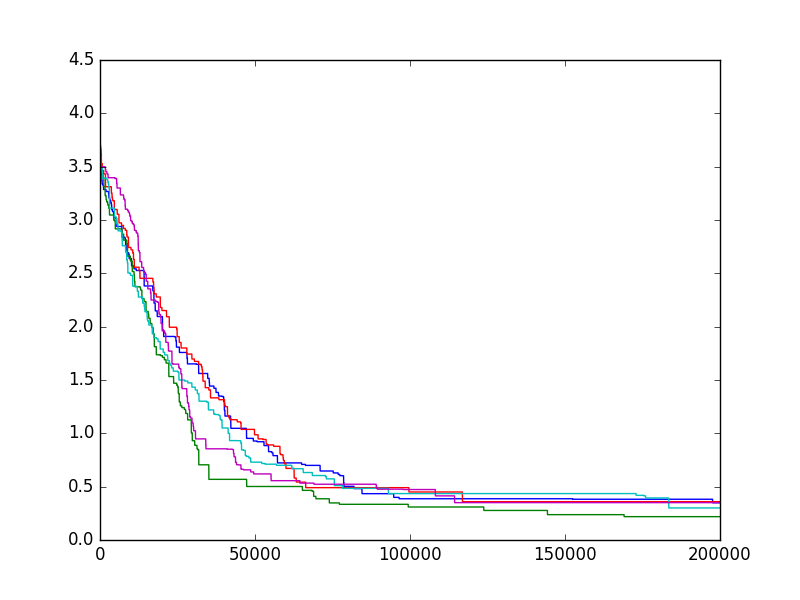
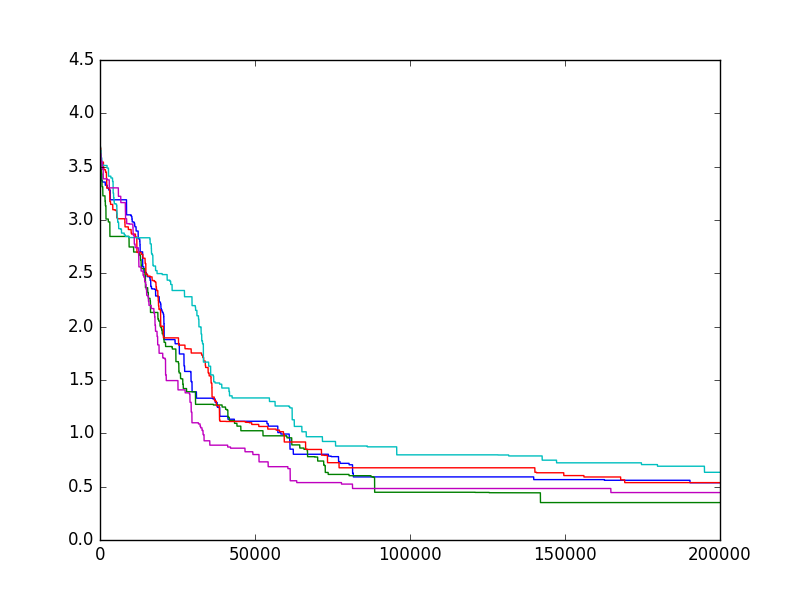
add PONSS

Changed region(s): [[0.125, 0.27, 0.9062, 0.87]]

diff --git a/zoopt/noise_handling/ponss.py b/zoopt/noise_handling/ponss.py
@@ -1,0 +1,133 @@
+from zoopt.opt_algorithms.paretoopt.paretoopt import ParetoOpt
+import numpy as np
+from zoopt.utils.zoo_global import gl
+from copy import deepcopy
+import time
+from zoopt.utils.tool_function import ToolFunction
+
+
+class PONSS(ParetoOpt):
+
+    def __init__(self):
+        ParetoOpt.__init__(self)
+        pass
+
+    def opt(self, objective, parameter):
+        """
+                pareto optimization.
+
+                :param objective: Objective object
+                :param parameter: Parameters object
+                :return: the best solution of the optimization
+                """
+        isolationFunc = parameter.get_isolationFunc()
+        theta = parameter.get_theta()
+        b = parameter.get_ponss_b()
+        n = objective.get_dim().get_size()
+
+        # initiate the population
+        sol = objective.construct_solution(np.zeros([1, n]))
+        objective.eval_constraint(sol)
+
+        population = [sol]
+        fitness = [sol.get_value()]
+        pop_size = 1
+        # iteration count
+        t = 0
+        T = parameter.get_budget()
+        while t < T:
+            if t == 0:
+                time_log1 = time.time()
+            # choose a individual from population randomly
+            s = population[gl.rand.randint(1, pop_size) - 1]
+            # every bit will be flipped with probability 1/n
+            offspring_x = self.mutation(s.get_x(), n)
+            offspring = objective.construct_solution(offspring_x)
+            objective.eval_constraint(offspring)
+            offspring_fit = offspring.get_value()
+            # now we need to update the population
+            has_better = False
+
+            for i in range(0, pop_size):
+                if isolationFunc(offspring_x) != isolationFunc(population[i].get_x()):
+                    continue
+                else:
+                    if self.theta_dominate(theta, fitness[i], offspring):
+                        has_better = True
+                        break
+            # there is no better individual than offspring
+            if not has_better:
+                P = []
+                Q = []
+                for j in range(0, pop_size):
+                    if self.theta_weak_dominate(offspring, population[i]):
+                        continue
+                    else:
+                        P.append(population[j])
+                population = P
+                for sol in population:
+                    if sol.get_value()[1] == offspring.get_value()[1]:
+                        Q.append(sol)
+                if len(Q) == b + 1:
+                    for sol in Q:
+                        population.remove(sol)
+                    j = 0
+                    while j < b:
+                        sols = gl.random.sample(Q, 2)
+                        Q.remove(sols[0])
+                        Q.remove(sols[1])
+                        objective.eval_constraint(sols[0])
+                        objective.eval_constraint(sols[1])
+                        if sols[0].get_value()[0] < sols[1].get_value()[0]:
+                            P.append(sols[0])
+                            Q.append(sols[1])
+                        else:
+                            P.append(sols[1])
+                            Q.append(sols[0])
+                        j += 1
+                        t += 2
+            t += 1
+            pop_size = len(population)
+
+            # display expected running time
+            if t == 5:
+                time_log2 = time.time()
+                expected_time = T * (time_log2 - time_log1) / 5
+                if expected_time > 5:
+                    m, s = divmod(expected_time, 60)
+                    h, m = divmod(m, 60)
+                    ToolFunction.log('expected remaining running time: %02d:%02d:%02d' % (h, m, s))
+
+        result_index = -1
+        max_value = float('inf')
+        for p in range(pop_size):
+            fitness = population[p].get_value()
+            if fitness[1] >= 0 and fitness[0] < max_value:
+                max_value = fitness[0]
+                result_index = p
+        return population[result_index]
+
+    @staticmethod
+    def theta_dominate(theta, solution1, solution2):
+        """
+        Judge if solution1 theta dominate solution2
+        :param theta: threshold
+        :param solution1: a Solution object
+        :param solution2: a Solution object
+        :return: True or False
+        """
+        fit1 = solution1.get_value()
+        fit2 = solution2.get_value()
+        if (fit1[0] + theta < fit2[0] and fit1[1] >= fit2[1]) or (fit1[0] + theta <= fit2[0] and fit1[1] > fit2[1]):
+            return True
+        else:
+            return False
+
+    @staticmethod
+    def theta_weak_dominate(theta, solution1, solution2):
+        fit1 = solution1.get_value()
+        fit2 = solution2.get_value()
+        if fit1[0] + theta <= fit2[0] and fit1[1] >= fit2[1]:
+            return True
+        else:
+            return False

diff --git a/zoopt/parameter.py b/zoopt/parameter.py
@@ -18,7 +18,7 @@ class Parameter:
 
     def __init__(self, algorithm=None, budget=0, init_samples=None, time_budget=None, terminal_value=None, sequential=True,
                  precision=None, uncertain_bits=None, intermediate_result=False, intermediate_freq=100, autoset=True,
-                 noise_handling=False, resampling=False, suppression=False, non_update_allowed=500, resample_times=100,
+                 noise_handling=False, resampling=False, suppression=False, ponss=False, ponss_theta=None, ponss_b=None, non_update_allowed=500, resample_times=100,
                  high_dim_handling=False, sre=False, num_sre=5, low_dimension=None, withdraw_alpha=None, variance_A=None):
         """
         Initialization.
@@ -80,6 +80,11 @@ class Parameter:
         # for noise handling
         self.__noise_handling = noise_handling
         self.__resampling = resampling
+        # for paretoopt noise handling
+        self.__ponss = ponss
+        self.__ponss_theta = ponss_theta
+        self.__ponss_b = ponss_b
+        # for value suppression
         self.__suppression = suppression
         self.__non_update_allowed = non_update_allowed
         self.__resample_times = resample_times
@@ -134,6 +139,15 @@ class Parameter:
 
     def get_resampling(self):
         return self.__resampling
+
+    def get_ponss(self):
+        return self.__ponss
+
+    def get_ponss_theta(self):
+        return self.__ponss_theta
+
+    def get_ponss_b(self):
+        return self.__ponss_b
 
     def get_suppressioin(self):
         return self.__suppression

diff --git a/example/simple_functions/opt_under_noise.py b/example/simple_functions/opt_under_noise.py
@@ -25,10 +25,10 @@ def minimize_ackley_continuous_noisy():
     # suppression=True means optimize with value suppression, which is a noise handling method
     # non_update_allowed=500 and resample_times=100 means if the best solution doesn't change for 500 budgets,
     # the best solution will be evaluated repeatedly for 100 times
-    # parameter = Parameter(budget=budget, noise_handling=True, suppression=True, non_update_allowed=500, resample_times=100)
+    parameter = Parameter(budget=budget, noise_handling=True, suppression=True, non_update_allowed=500, resample_times=100)
 
-    parameter = Parameter(budget=budget, noise_handling=True, resampling=True, resample_times=10)
-    # parameter.set_positive_size(5)
+    # parameter = Parameter(budget=budget, noise_handling=True, resampling=True, resample_times=10)
+    parameter.set_positive_size(5)
 
     ExpOpt.min(objective, parameter, repeat=5, plot=True, plot_file="img/ackley_continuous_noisy_figure.png")
 

diff --git a/zoopt/opt_algorithms/paretoopt/paretoopt.py b/zoopt/opt_algorithms/paretoopt/paretoopt.py
@@ -50,8 +50,6 @@ class ParetoOpt:
         :param parameter: Parameters object
         :return: the best solution of the optimization
         """
-        evaluationFunc = objective.get_func()
-        constraint = objective.get_constraint()
         isolationFunc = parameter.get_isolationFunc()
         n = objective.get_dim().get_size()
 
